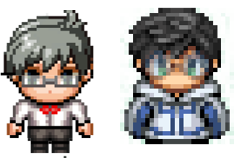
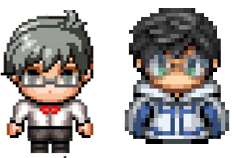
修正Intro小銘的圖、1P2P可用按鍵選取

diff --git a/main.py b/main.py
@@ -411,6 +411,10 @@ def GameStart():
             if event.type == pygame.QUIT:
                 QuitGame()
             if event.type == pygame.KEYDOWN:
+                if event.key == pygame.K_LEFT:
+                    TogglePlayer1()
+                if event.key == pygame.K_RIGHT:
+                    TogglePlayer2()
                 if event.key == pygame.K_SPACE:
                     StartGame()
         
